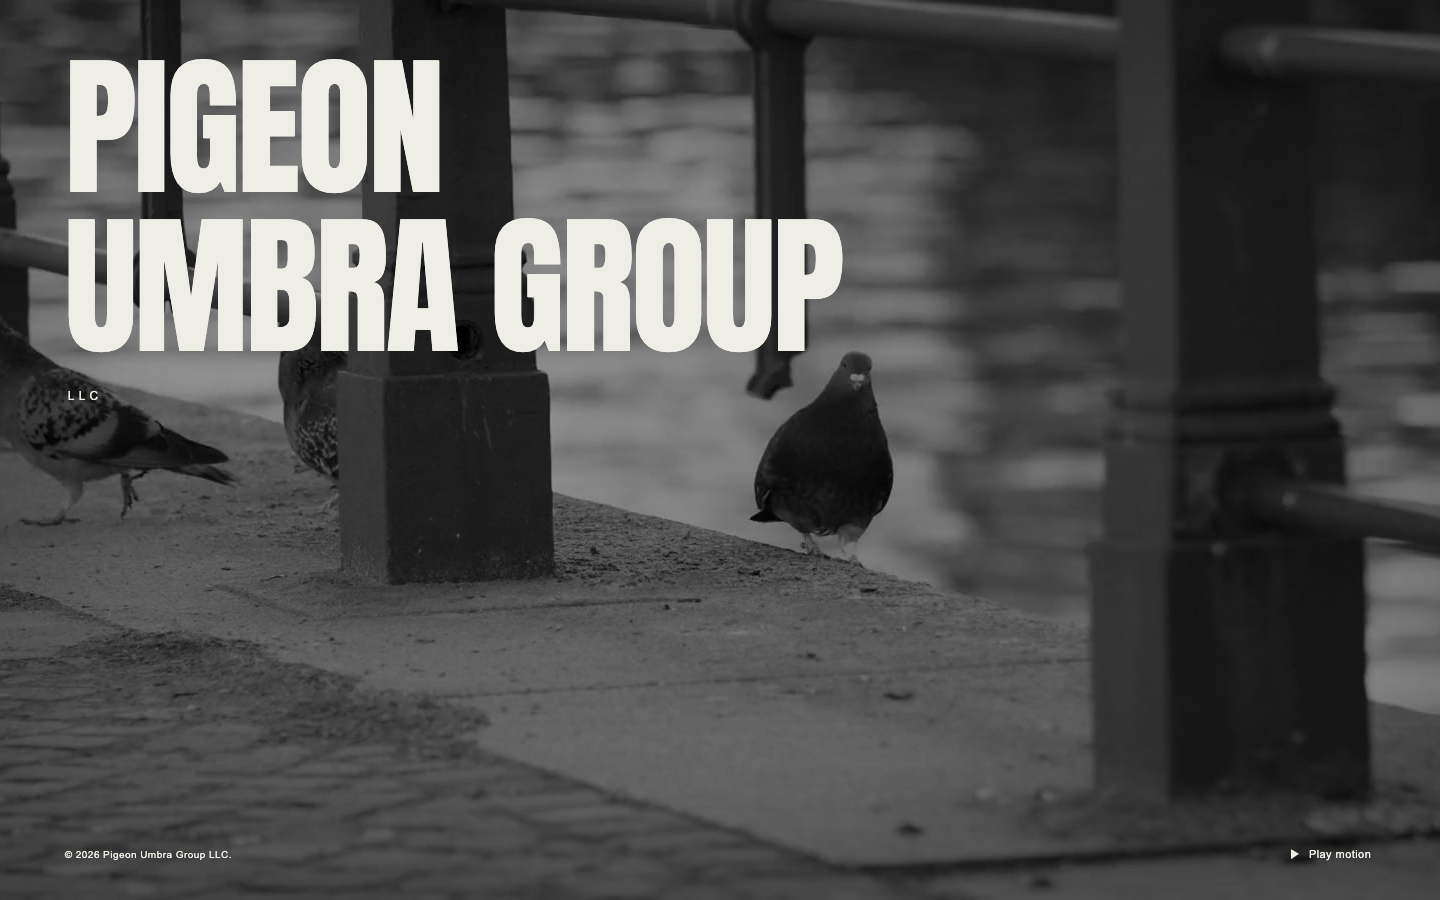
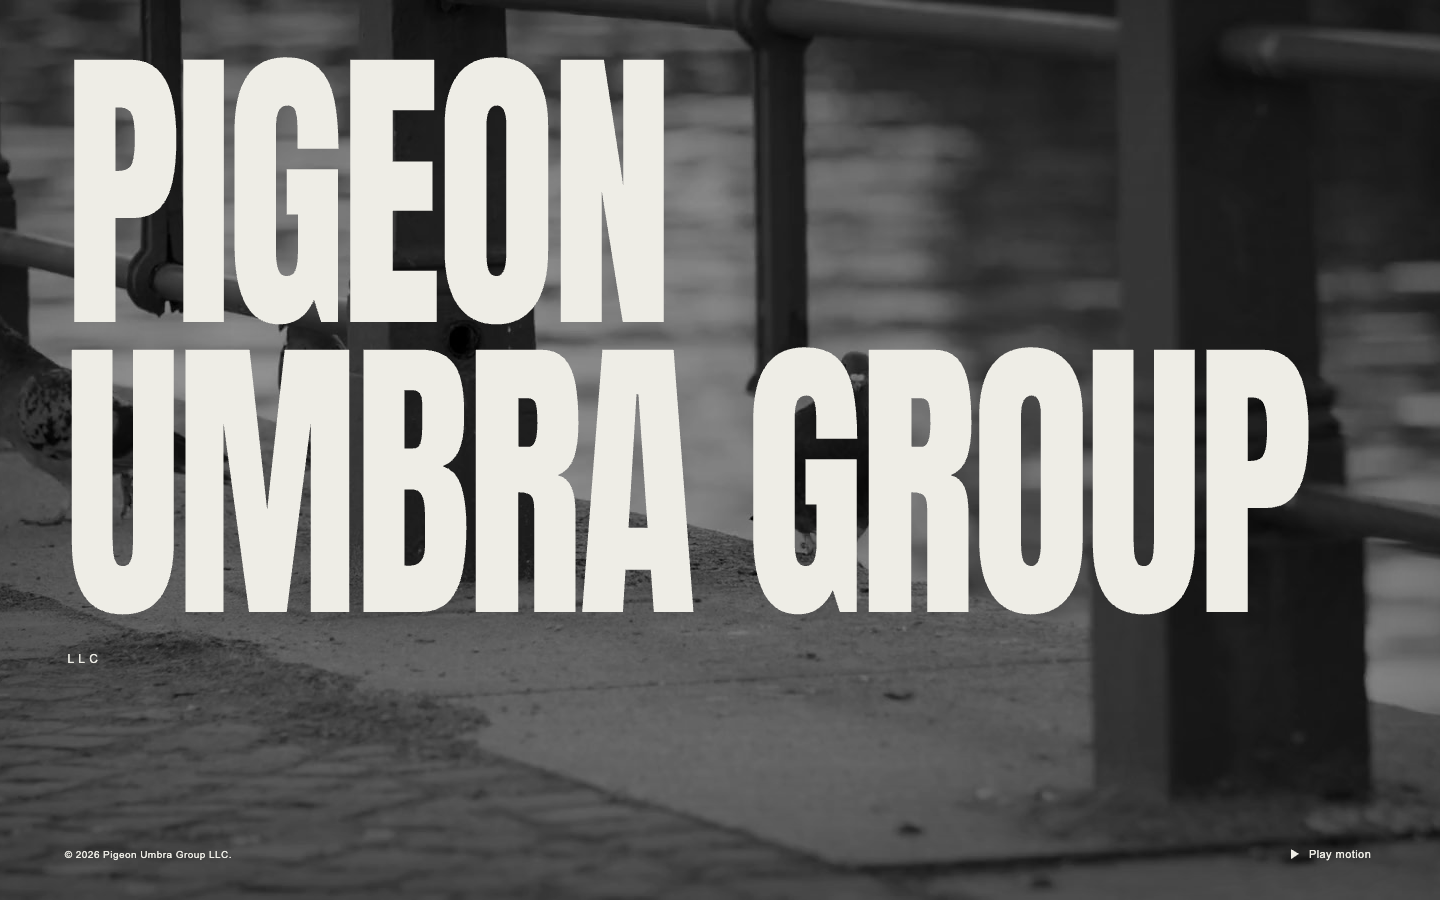
Double the public landing wordmark size

Changed region(s): [[0.0312, 0.0622, 0.9062, 0.6844]]

diff --git a/public/landing/landing.css b/public/landing/landing.css
@@ -11,8 +11,11 @@ body{font-family:Arial,Helvetica,sans-serif}
 .motion{opacity:0}
 .motion.has-frame{opacity:1}
 .scene::after{content:'';position:absolute;inset:0;background:rgba(0,0,0,var(--shade));box-shadow:inset 0 0 180px 30px #0004}
-h1{margin:0;font-weight:400;font-family:Anton,CondensedFallback,'Arial Narrow',Impact,sans-serif;font-size:clamp(64px,10.6vw,190px);line-height:1.04;letter-spacing:-.018em}
+h1{margin:0;font-weight:400;font-family:Anton,CondensedFallback,'Arial Narrow',Impact,sans-serif;font-size:clamp(128px,21.2vw,380px);line-height:.95;letter-spacing:-.018em}
 .wordmark>span{display:block}
+/* Twice the type size, compressed into a deliberately imposing wordmark. */
+.wordmark{display:block;transform:scaleX(.8);transform-origin:left top;width:125%}
+.wordmark .llc{transform:scaleX(1.25);transform-origin:left top}
 .second-line{white-space:nowrap}
 .wordmark .llc{font:400 12px/1 Arial,Helvetica,sans-serif;letter-spacing:.35em;margin-top:25px;margin-left:3px}
 footer{display:flex;align-items:center;justify-content:space-between;gap:20px;margin-top:50px}
@@ -27,11 +30,11 @@ button[data-playing='true'] .motion-icon{border:0;border-left:2px solid currentC
 @media(max-width:600px){
  :root{--focal-x:54%;--shade:.44}
  .hero{padding: max(34px,env(safe-area-inset-top)) max(24px,env(safe-area-inset-right)) max(18px,env(safe-area-inset-bottom)) max(24px,env(safe-area-inset-left))}
- h1{font-size:clamp(64px,21vw,126px);line-height:1.04;letter-spacing:-.012em}
+ h1{font-size:clamp(128px,42vw,252px);line-height:.95;letter-spacing:-.012em}
  .second-line>span{display:block}
  .wordmark .llc{margin-top:22px;font-size:10px}
  footer{gap:10px}
  small{font-size:9px;max-width:180px}
  button{font-size:10px;white-space:nowrap;padding-left:5px}
 }
-@media(max-height:700px) and (min-width:601px){.hero{padding-top:25px;padding-bottom:12px}h1{font-size:min(10vw,21vh)}.wordmark .llc{margin-top:15px}footer{margin-top:25px}}
+@media(max-height:700px) and (min-width:601px){.hero{padding-top:25px;padding-bottom:12px}h1{font-size:min(20vw,42vh)}.wordmark .llc{margin-top:15px}footer{margin-top:10px}}
